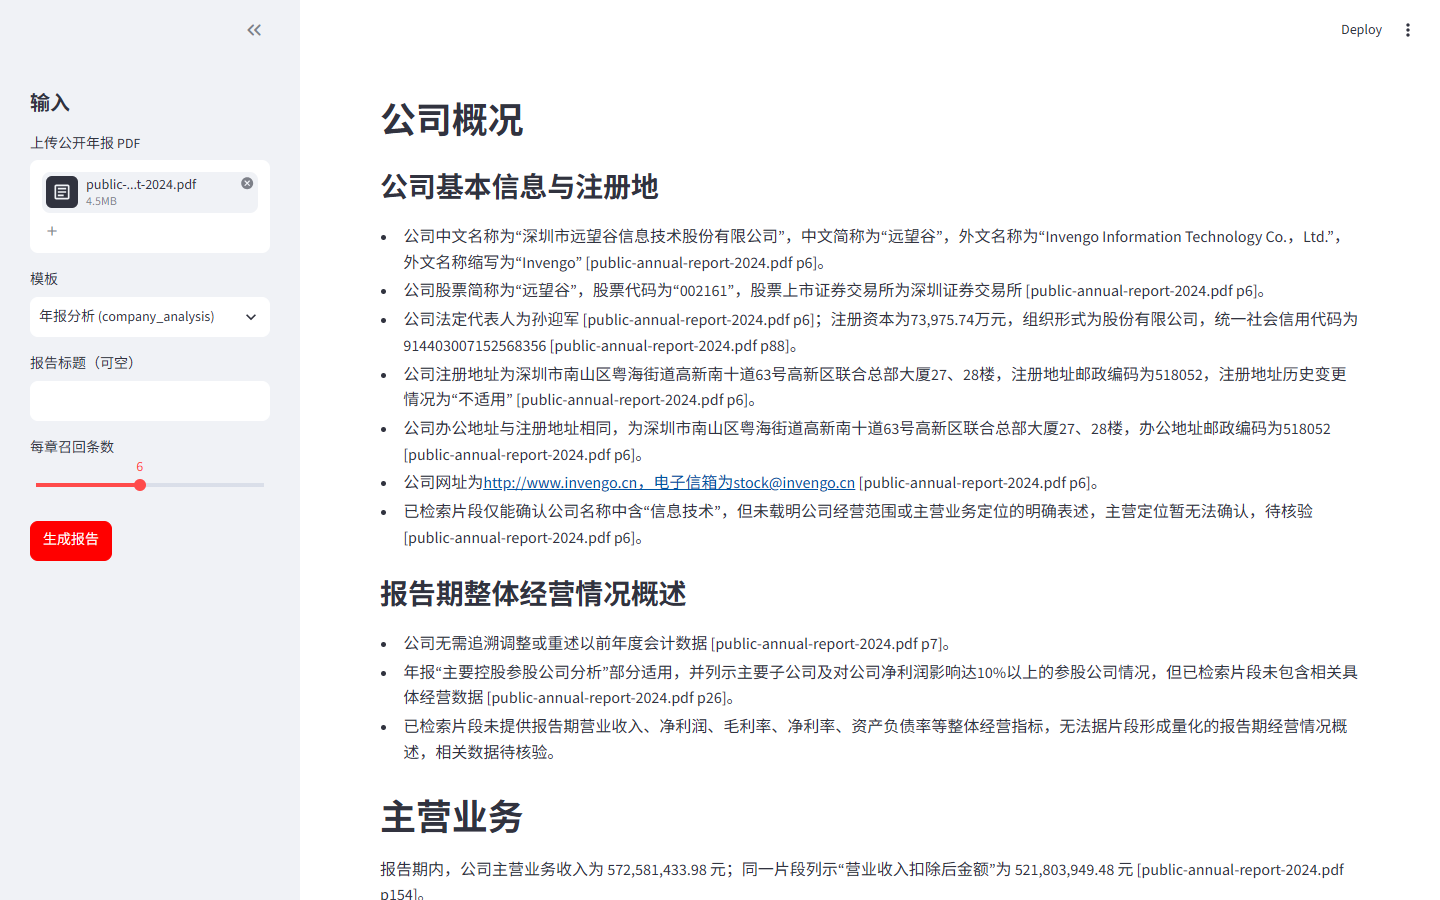
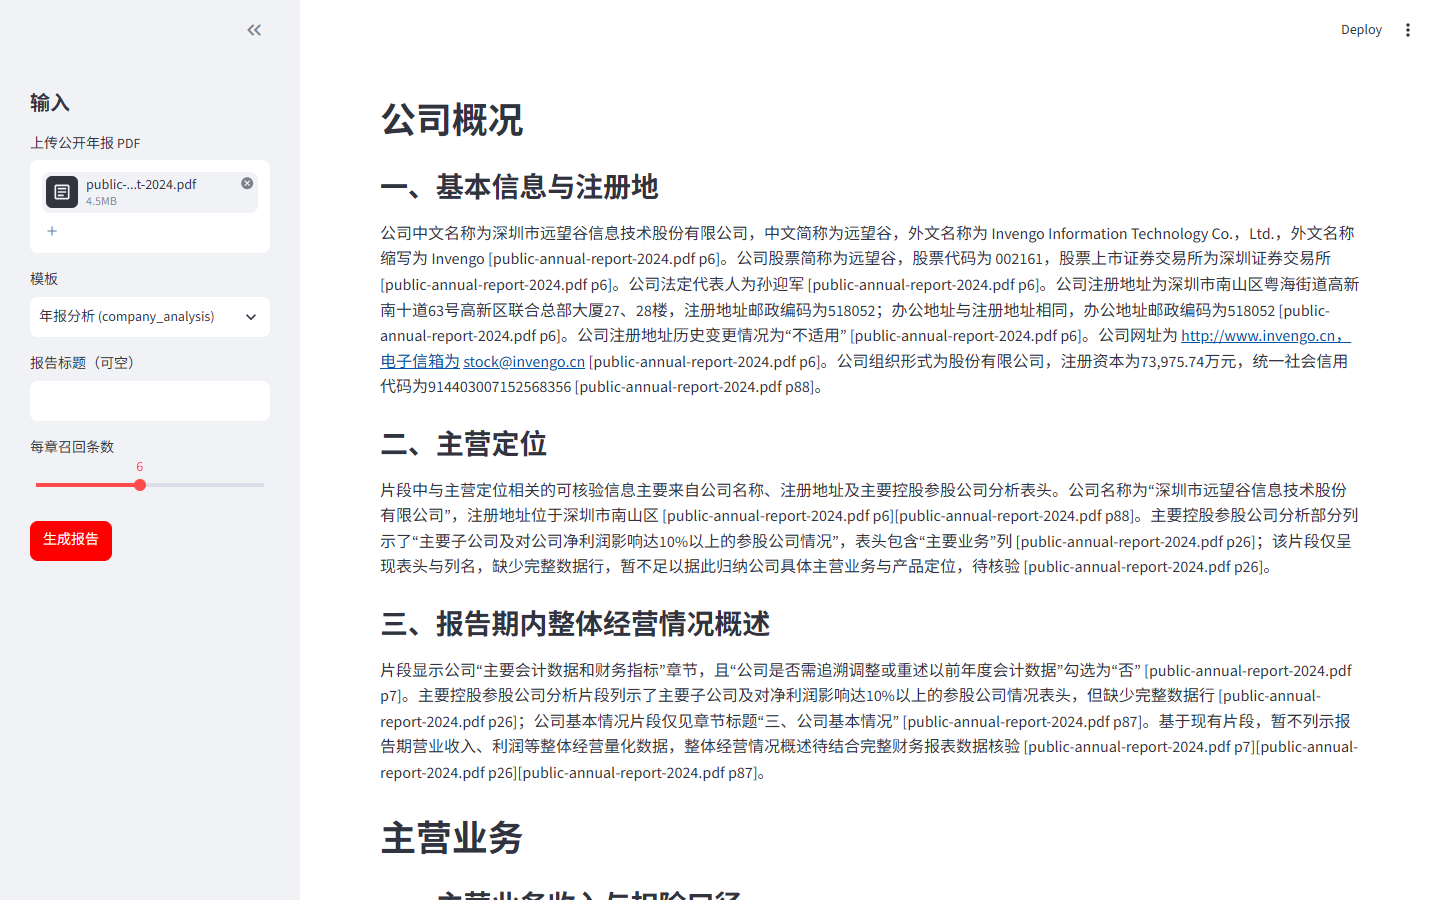
[final-run] 候选代码完整实跑并更新真实截图；185 passed, 11 skipped

Changed region(s): [[0.25, 0.2489, 0.9375, 1.0], [0.25, 0.1867, 0.3125, 0.2178]]

diff --git a/docs/devlog/2026-10-r10-final-run.md b/docs/devlog/2026-10-r10-final-run.md
@@ -1,0 +1,54 @@
+# 第 10 轮任务 2：final-run
+
+## 环境与执行基线
+
+- Windows 11 / PowerShell 7.6.5 / 现有 .venv Python 3.12.10 / NVIDIA GeForce RTX 3050 Laptop GPU。
+- CLI 和截图运行代码提交：4a2562f（任务 1 已推送）。后续任务仅整理文档及卫生测试，不改变报告运行代码。
+- 使用原公开年报与现有模型配置；CLI 明确使用 memory。未输出密钥，未下载新模型，未启动重复 CLI。
+
+## 实跑观察（非基准、重跑会变）
+
+`python -m core.graph.run --pdf data/samples/public-annual-report-2024.pdf --out-dir output/v1-final --summary-json output/v1-final/run-summary.json`
+
+- chunks：1646。
+- 解析 87.6 s；入库 77.6 s；graph 178.8 s；总计 344.5 s。
+- errors：[]。
+- 导出：["output\\v1-final\\年报分析-20261029-205134.md", "output\\v1-final\\年报分析-20261029-205134.docx"]。文件保留在 output，不提交。
+
+| 章节 | 核验状态 | 重写次数 | 【待核实】 | 引用页 | 耗时 (s) |
+| --- | --- | ---: | ---: | --- | ---: |
+| 公司概况 | supported | 0 | 0 | 6, 7, 26, 88 | 32.4 |
+| 主营业务 | supported | 0 | 0 | 23, 26, 153, 154 | 16.9 |
+| 财务表现 | supported | 0 | 0 | 7, 8, 68 | 41.6 |
+| 风险因素 | supported | 0 | 0 | 2, 30, 31, 167 | 41.6 |
+| 结论 | supported | 0 | 0 | 23, 25, 29, 43 | 20.7 |
+
+### 【待核实】原句（总计 0 处）
+
+本次没有精确的【待核实】标记。
+
+精确标记计数不代表所有事实已验证；正文可能仍有“待核验”和数据缺失陈述。
+
+### 公司名称与注册地引用
+
+- 公司中文名称为深圳市远望谷信息技术股份有限公司，中文简称为远望谷；外文名称为 Invengo Information Technology Co.，Ltd.，外文名称缩写为 Invengo [public-annual-report-2024.pdf p6]。
+
+- 公司注册地址历史变更情况为不适用 [public-annual-report-2024.pdf p6]。
+
+- 公司注册地址为深圳市南山区粤海街道高新南十道 63 号高新区联合总部大厦 27、28 楼，注册地址邮政编码为 518052 [public-annual-report-2024.pdf p6]。
+
+### 内部词与任务 1 规则
+
+calc_financials：0 次；写作上下文：0 次；销售净利率：0 次。
+
+任务 1 选择删除自动守卫，仅保留写作提示。提示在每次章节写作/重写时传入；没有自动矛盾检测器，因此“是否触发守卫”为不适用，不能记录成守卫成功触发 0 次。无法仅凭 summary 判断模型是否逐条遵守提示；需人工结合引用片段核对。
+
+## 截图、测试与人工确认
+
+- 在同一代码提交运行 `python scripts/screenshots.py --skip-qa --pdf data/samples/public-annual-report-2024.pdf --report-port 8513`，重拍 report-preview / report-progress。
+- 脚本生成真实 Streamlit 报告，UI 与 CLI 是独立模型运行；截图对应同一 HEAD，不冒充 CLI 的逐字输出。
+- 测试命令：`python -m pytest -q -rs -p no:cacheprovider --basetemp=$env:LOCALAPPDATA\Temp\d2r-pytest-r10`。
+- 本任务 185 passed / 11 skipped / 1 warning，10.27 s。跳过均为原生 Windows 无 Milvus Lite；warning 为既有 LangChain 弃用预告。
+- 只读检查 `wsl --list --quiet` 返回需安装 WSL 的提示；本机没有可用于本轮复测的 Linux 环境，Linux 以评审复现为准，不复用旧 HEAD 的数字。
+- 人工确认：作者用本次 DOCX 在本机打开并拍摄 Word 图；代理不生成此图、不打 tag。supported 不等于完整语义核验。
+- 坑：截图脚本会独立重跑模型，输出可能不同；只记录各自实际观察。原有未跟踪 JSON 保留。
